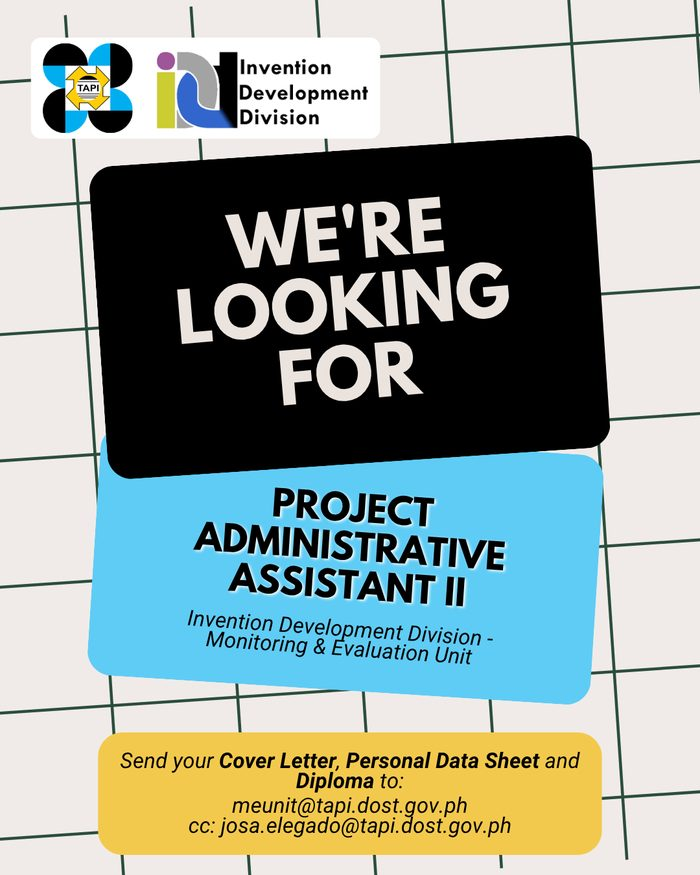
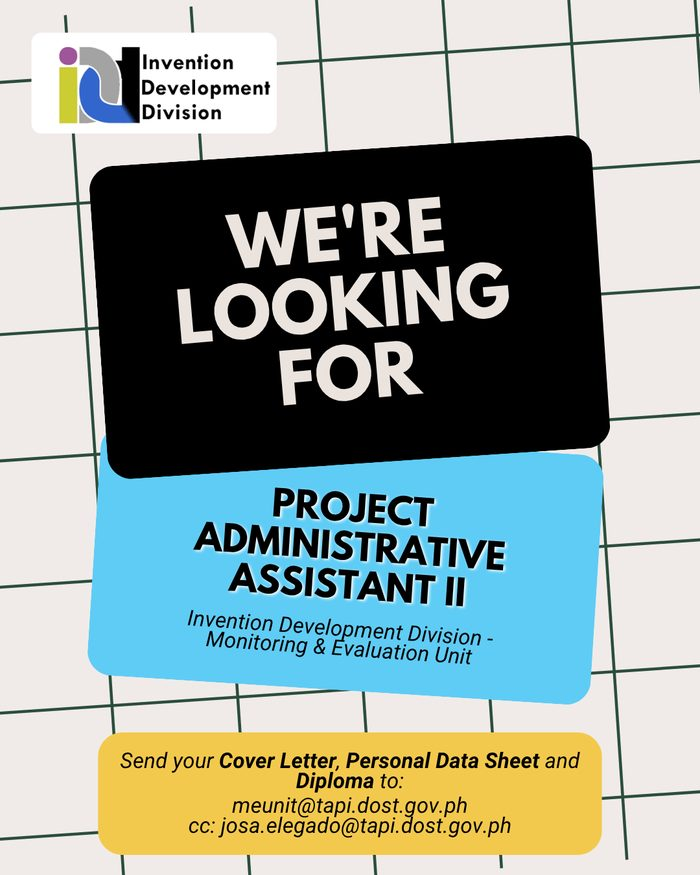
Hiring page: swap poster to IDD-only version

Changed region(s): [[0.06, 0.0309, 0.54, 0.1543]]

diff --git a/hiring/project-administrative-assistant-ii/index.html b/hiring/project-administrative-assistant-ii/index.html
@@ -12,7 +12,7 @@
 <meta property="og:title" content="Hiring: Project Administrative Assistant II, DOST-TAPI M&amp;E Unit" />
 <meta property="og:description" content="One Contract of Service post with the Invention Development Division, Monitoring and Evaluation Unit. Send a cover letter, Personal Data Sheet and diploma until 13 September 2026." />
 <meta property="og:url" content="https://www.josaelegado.work/hiring/project-administrative-assistant-ii/" />
-<meta property="og:image" content="https://www.josaelegado.work/assets/hiring/paa2-poster.jpg" />
+<meta property="og:image" content="https://www.josaelegado.work/assets/hiring/paa2-poster.jpg?v=2" />
 <meta property="og:image:width" content="1080" />
 <meta property="og:image:height" content="1350" />
 <meta property="og:locale" content="en_PH" />
@@ -142,7 +142,7 @@
           </div>
         </div>
         <figure class="posting__poster hero__poster">
-          <img src="/assets/hiring/paa2-poster-700.jpg" width="700" height="875" alt="DOST-TAPI Invention Development Division poster: We're looking for a Project Administrative Assistant II, Monitoring and Evaluation Unit. Send your cover letter, Personal Data Sheet and diploma to meunit@tapi.dost.gov.ph, cc josa.elegado@tapi.dost.gov.ph." decoding="async" />
+          <img src="/assets/hiring/paa2-poster-700.jpg?v=2" width="700" height="875" alt="DOST-TAPI Invention Development Division poster: We're looking for a Project Administrative Assistant II, Monitoring and Evaluation Unit. Send your cover letter, Personal Data Sheet and diploma to meunit@tapi.dost.gov.ph, cc josa.elegado@tapi.dost.gov.ph." decoding="async" />
         </figure>
       </div>
     </div>
